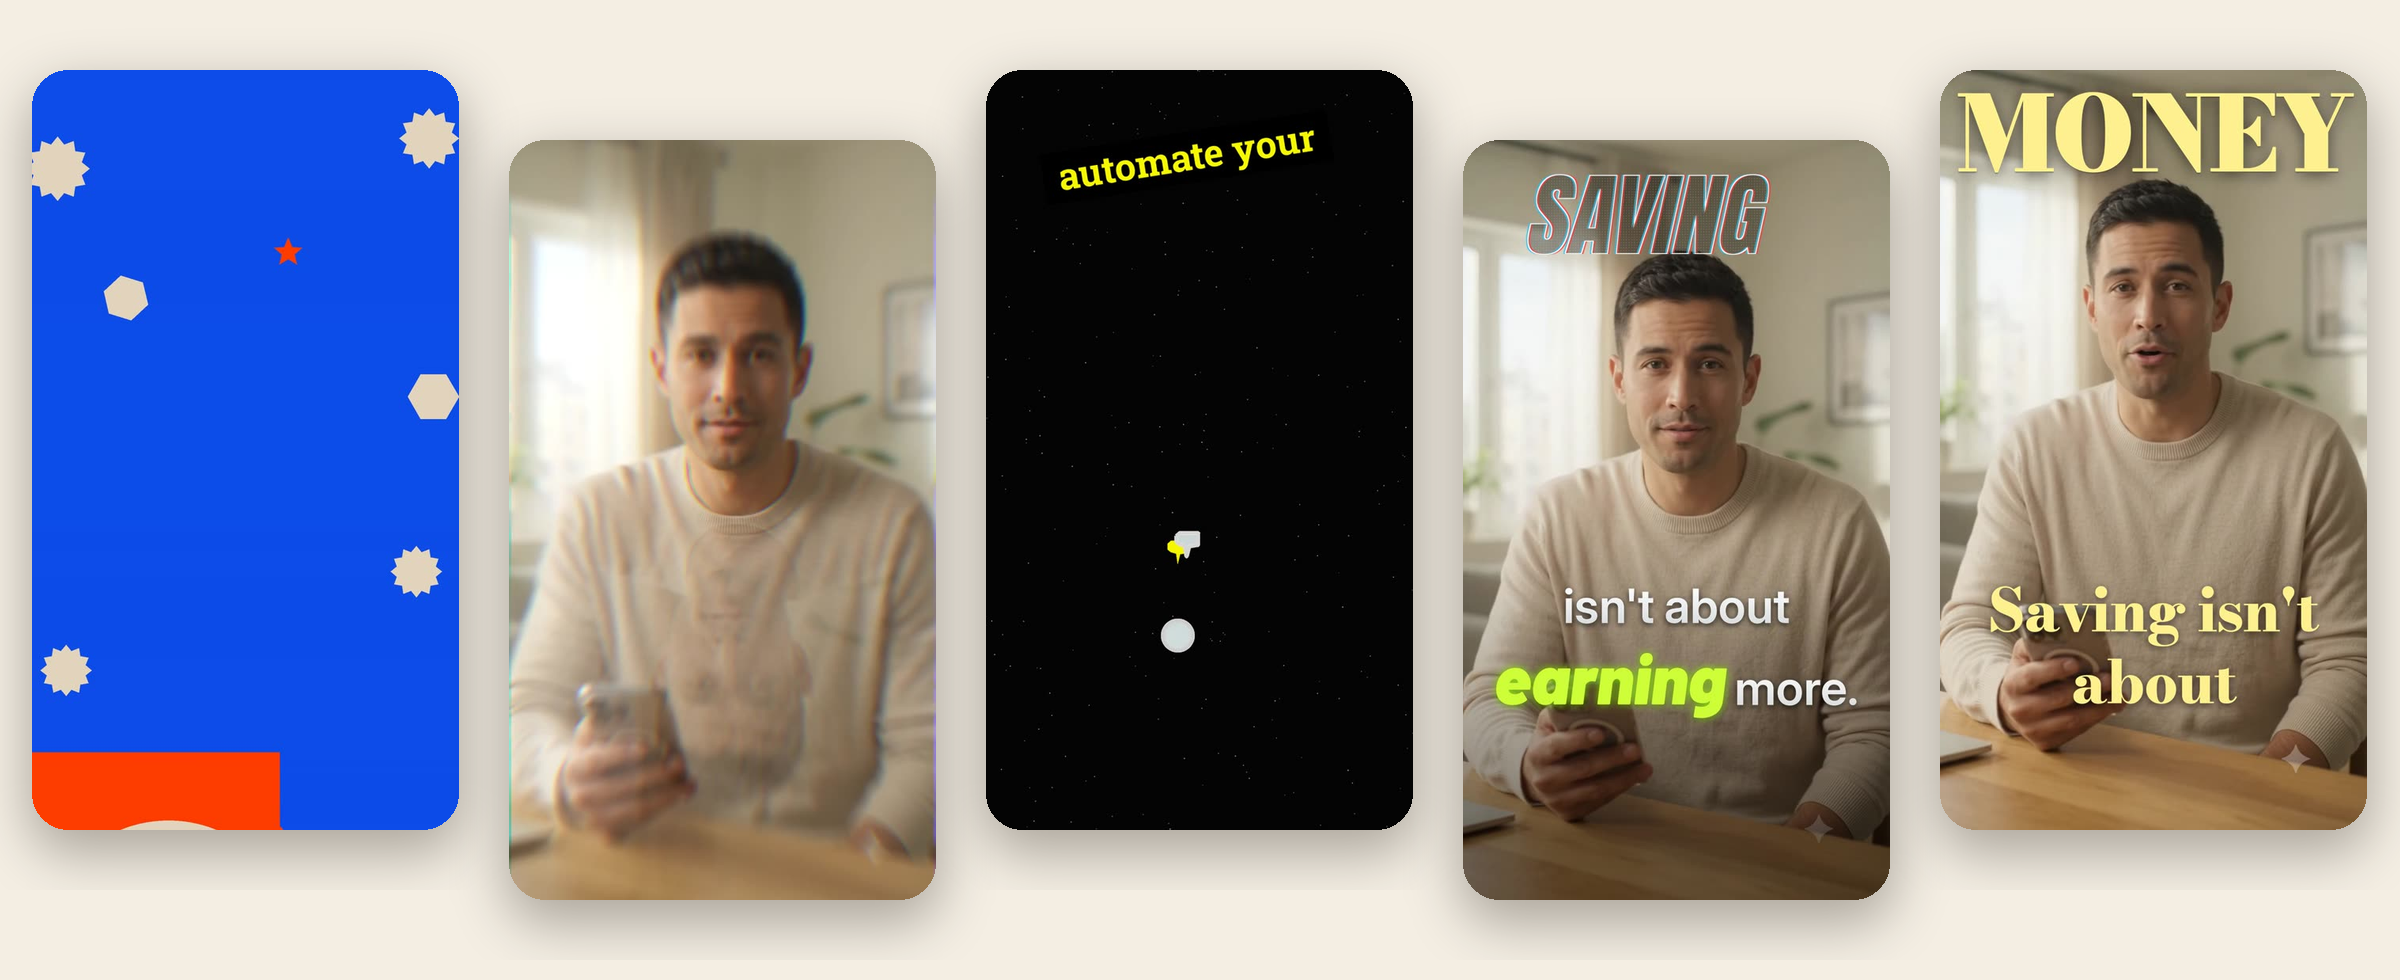
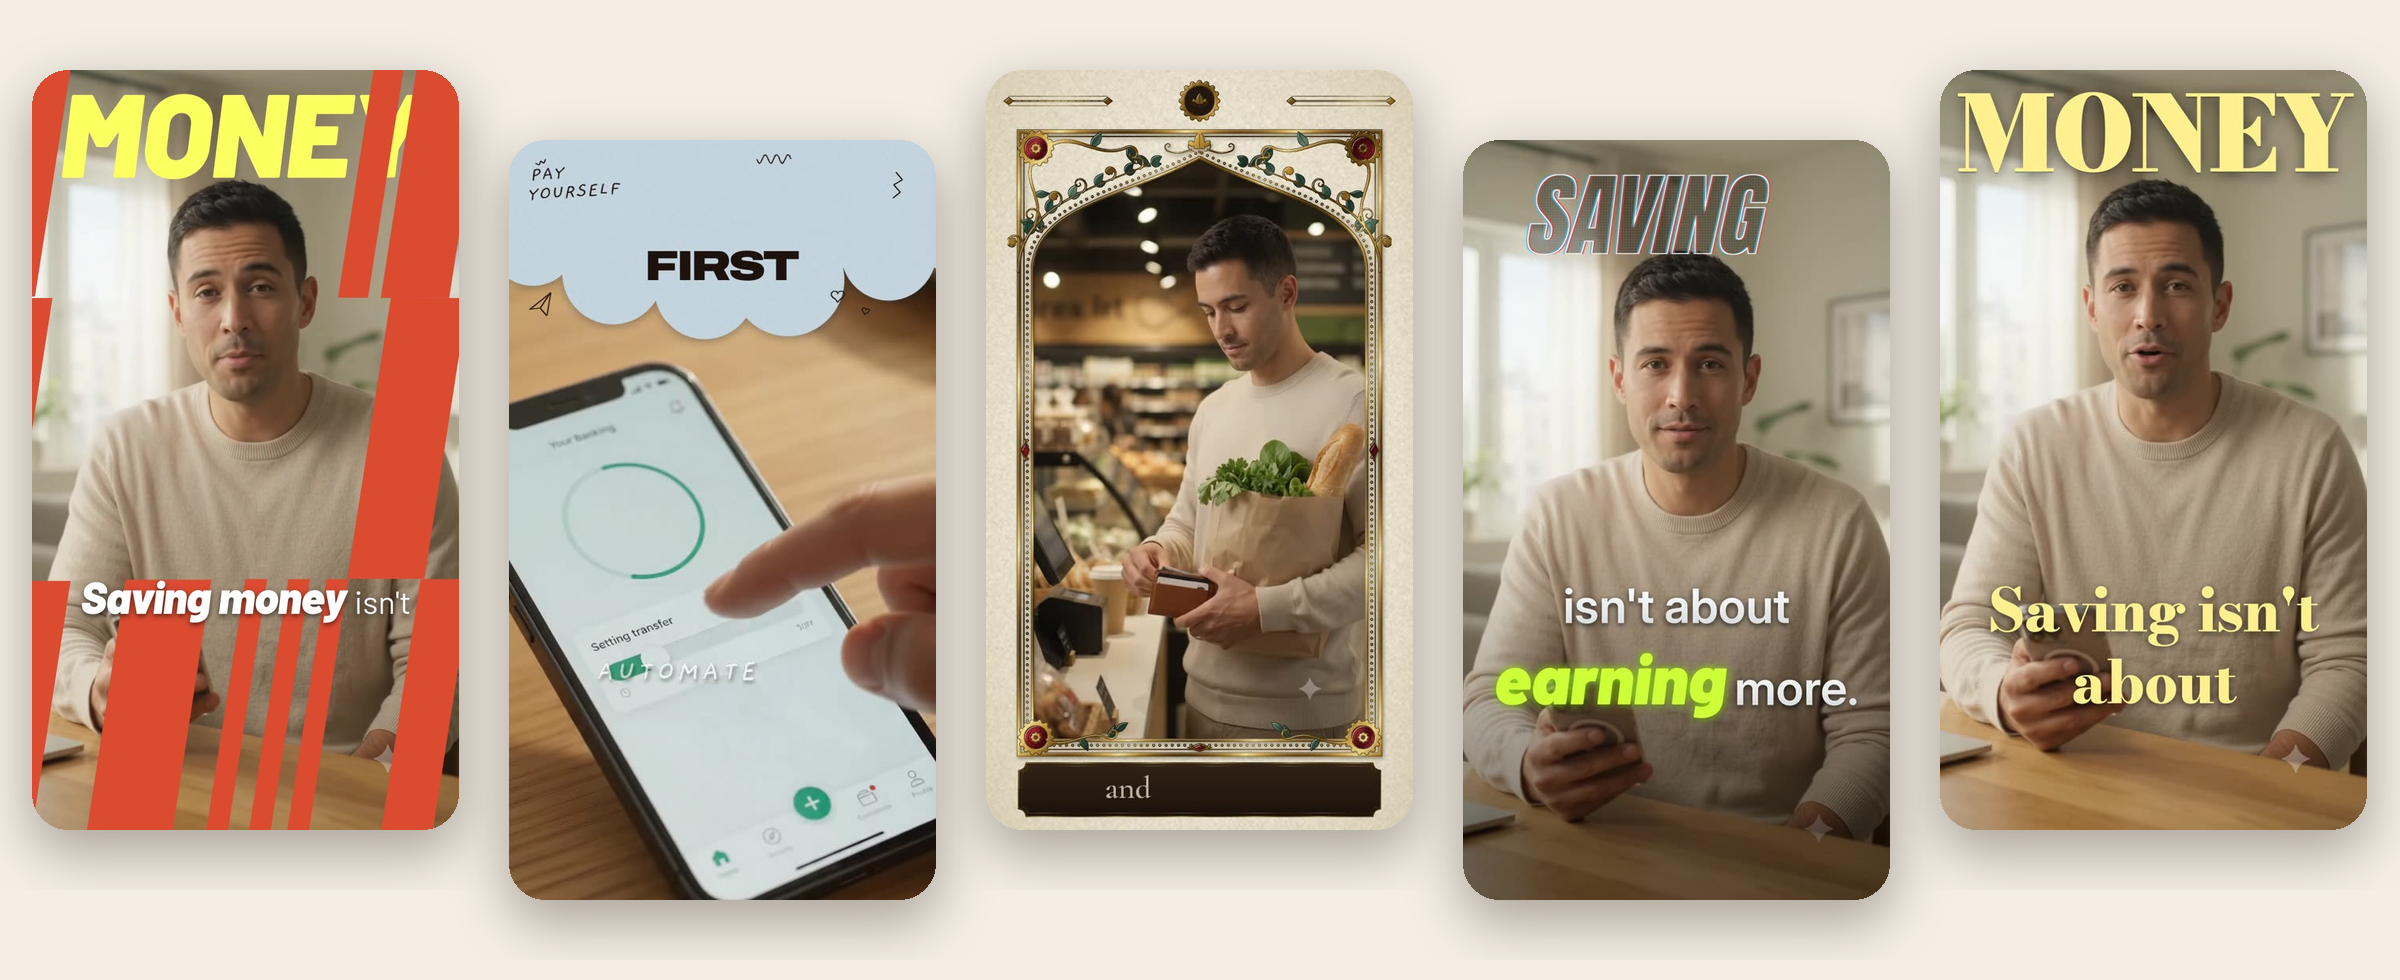
Fix hero previews, open catalog sections by default

diff --git a/README.md b/README.md
@@ -51,7 +51,7 @@ Click a preview to open the skill. Every skill is one folder, `skills/<number>-<
 <a href="skills/57-style-ios-widgets/"><img src="https://raw.githubusercontent.com/pihu26112005/motion-graphics-skills-media/main/gifs/57-style-ios-widgets.gif" width="23%" alt=""></a>
 </div>
 
-<details>
+<details open>
 <summary><b>Browse all motion styles</b></summary>
 
 | # | Style | Preview | Signature moments | Works with |
@@ -93,7 +93,7 @@ Click a preview to open the skill. Every skill is one folder, `skills/<number>-<
 <a href="skills/130-caption-whisper-blob/"><img src="https://raw.githubusercontent.com/pihu26112005/motion-graphics-skills-media/main/gifs/130-caption-whisper-blob.gif" width="23%" alt=""></a>
 </div>
 
-<details>
+<details open>
 <summary><b>Browse all dynamic captions</b></summary>
 
 | # | Caption | Preview | Signature moments | Works with |
@@ -135,7 +135,7 @@ Click a preview to open the skill. Every skill is one folder, `skills/<number>-<
 <a href="skills/99-graphics-slip-surface-cuts/"><img src="https://raw.githubusercontent.com/pihu26112005/motion-graphics-skills-media/main/gifs/99-graphics-slip-surface-cuts.gif" width="23%" alt=""></a>
 </div>
 
-<details>
+<details open>
 <summary><b>Browse all motion graphics</b></summary>
 
 | # | Graphic | Preview | What it shows | You provide |
